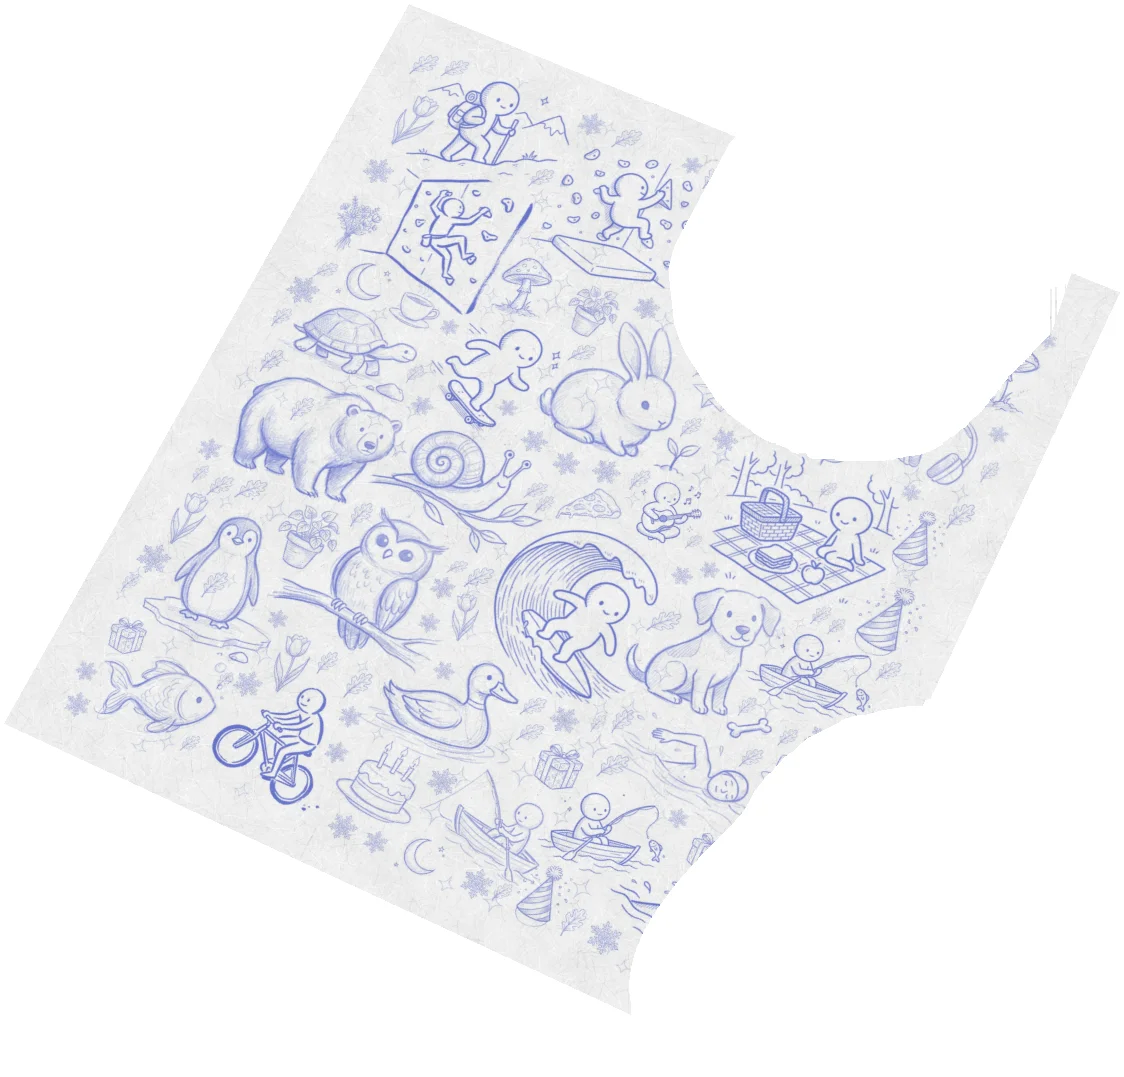
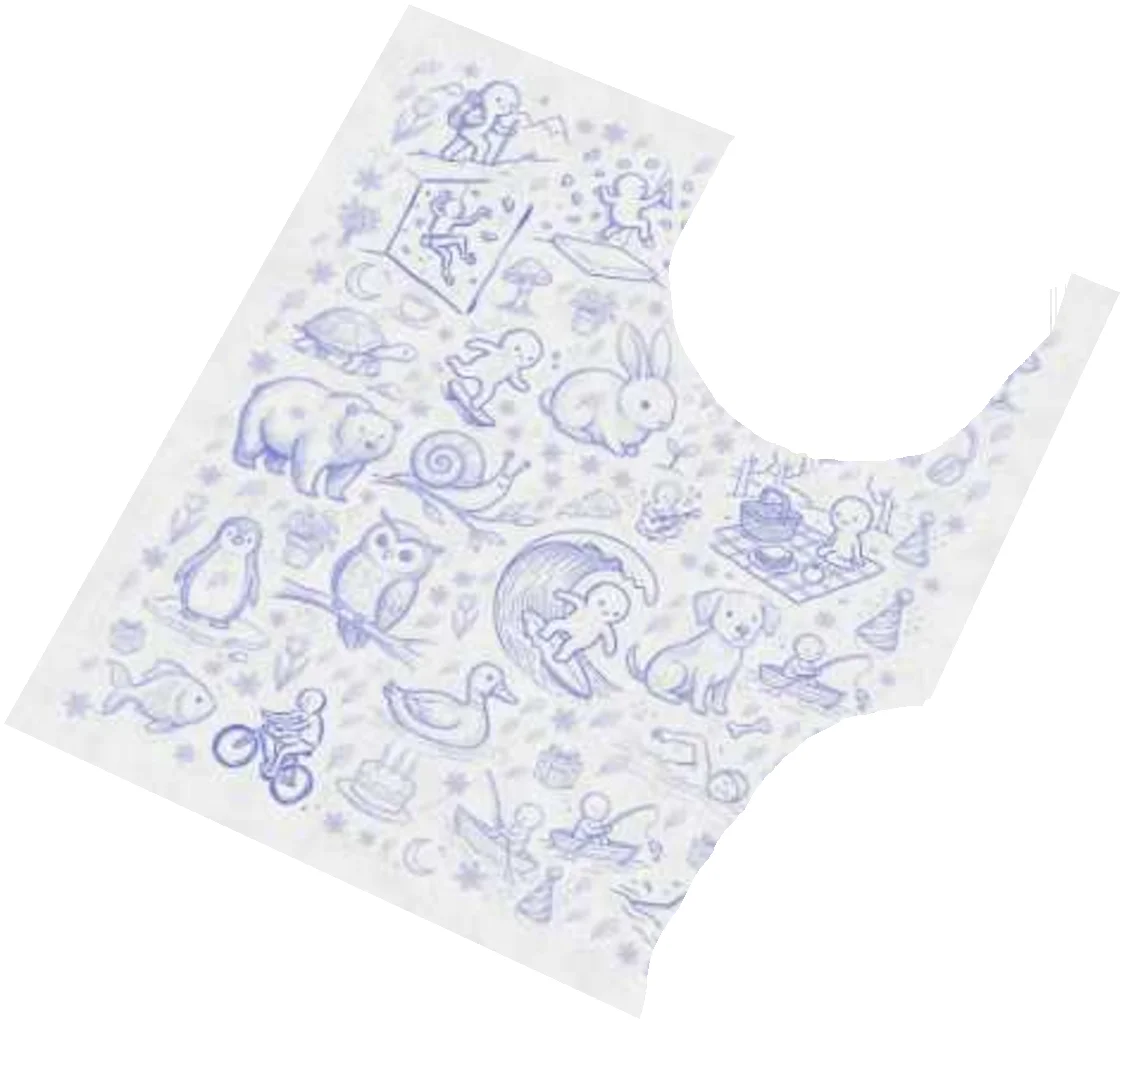
Loose sheets: aged like the film, and the mug's side where Andrew drew it
"make the page a bit fuzzier and a bit more compression artifacting to
match scene" (the loose sheets): the film is Veo's 720p take, compressed
and upscaled, and the sheets' ink sat on it crisp as a sticker. The bake
now draws each sheet at 42% of its size, through JPEG at quality 0.5
there - its blocks and ringing come back up at the film's own scale -
and back up, before the cut to the paper so the measured edges stay
put. Chosen from four strengths compared at screen size. 43-63 KB now.

"a gap between bottom cup and drawing leaving small section of blank
space ... I drew a better line": his green line, mapped into the 4K
frame by six features of the drawings in his screenshot (fit within
3px, ending on the sheet's fitted edge), is now the mug's side. The
pale sunlit strip beside the mug reads as paper to him; every trace of
the image had put the edge 20-35px short, in that strip.

diff --git a/src/app/landing/doodleSheets.ts b/src/app/landing/doodleSheets.ts
@@ -74,7 +74,16 @@ export type SheetBakeInput = {
   paper: string;
   /** Picture px per fibre-tile px: the tile is 4in, a sheet about 100px/in. */
   paperScale: number;
+  /** Aged to match the film: drawn at `scale` of its size, through lossy
+   *  compression at `quality` there, and scaled back up. */
+  age: { scale: number; quality: number };
 };
+
+/** The film is Veo's 720p take, compressed, then upscaled to 4K: its detail
+ *  is soft and a little blocky, and ink drawn crisp at 4K sat on it like a
+ *  sticker (2026-09-28: "make the page a bit fuzzier and a bit more
+ *  compression artifacting to match scene"). */
+export const SHEET_AGE = { scale: 0.42, quality: 0.5 };
 
 /** What bakeSheet needs for one sheet, given its packed ink and a way to
  *  turn a site path into a URL the baking page can load. */
@@ -89,6 +98,7 @@ export function sheetBakeInput(id: SheetId, ink: string, url: (path: string) => 
     mask: url(sheetMaskPath(id)),
     paper: url("/landing/paper.jpg"),
     paperScale: 0.8,
+    age: SHEET_AGE,
   };
 }
 
@@ -228,6 +238,21 @@ export async function bakeSheet(input: SheetBakeInput): Promise<string> {
   p.fillRect(0, 0, W, H);
   p.globalCompositeOperation = "multiply";
   p.drawImage(warped, 0, 0);
+  p.globalCompositeOperation = "source-over";
+
+  // Aged like the film: smaller, through JPEG there - its 8px blocks and
+  // ringing come back up at the film's own scale - and up again, softly.
+  // Before the cut to the paper, so the edges at the book, cup and mug stay
+  // where they were measured.
+  const { scale: k, quality } = input.age;
+  const small = canvas(Math.round(W * k), Math.round(H * k));
+  const sg = small.getContext("2d")!;
+  sg.imageSmoothingQuality = "high";
+  sg.drawImage(sheet, 0, 0, small.width, small.height);
+  const aged = await load(small.toDataURL("image/jpeg", quality));
+  p.imageSmoothingQuality = "high";
+  p.drawImage(aged, 0, 0, W, H);
+
   p.globalCompositeOperation = "destination-in";
   p.imageSmoothingQuality = "high";
   p.drawImage(mask, 0, 0, W, H);
